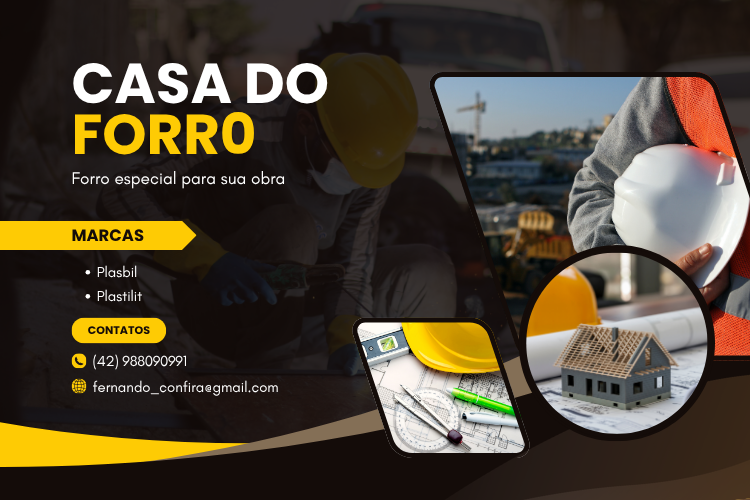
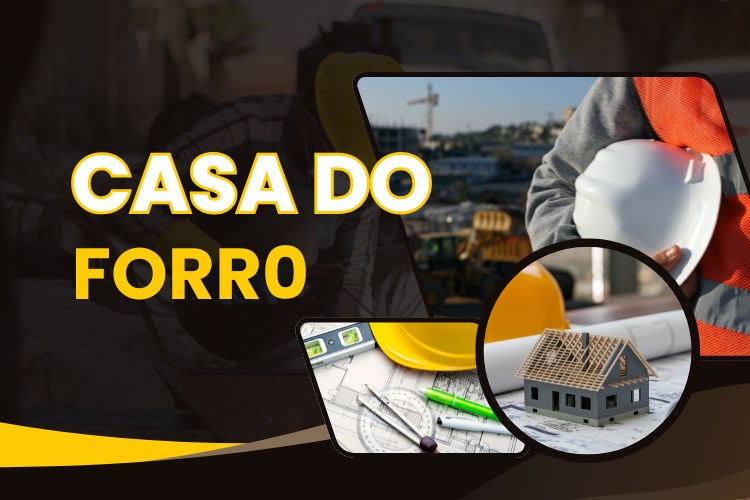
ajuete emergencuia

diff --git a/index.html b/index.html
@@ -32,8 +32,10 @@
     </header>
     
     <main>
-        <img src="img/bannerTelainicial.png" class="topo">
-
+        <picture>
+    <source media="(max-width: 750px)" srcset="img/topopequeno.png">
+    <img src="img/bannerTelainicial.png" class="topo" alt="Banner">
+</picture>
         
         <div class="empresas"> 
         <div>

diff --git a/style.css b/style.css
@@ -277,6 +277,11 @@
     }
 }
 @media (max-width:750px) {
+    
+    .topo{ 
+        width: 100%;
+        height: 50vh; 
+          } 
     .empresas img{
         display: none;
     }
